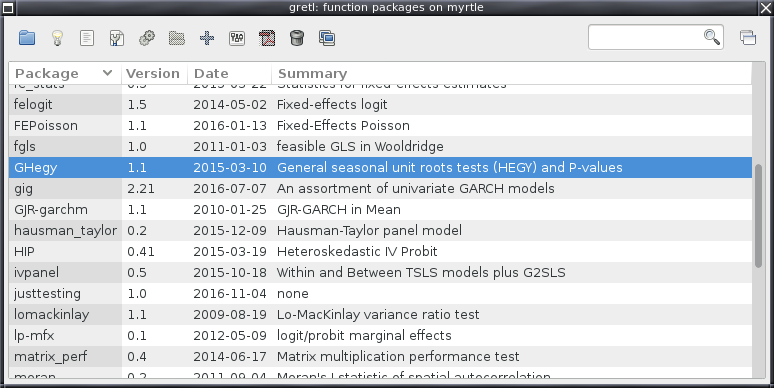
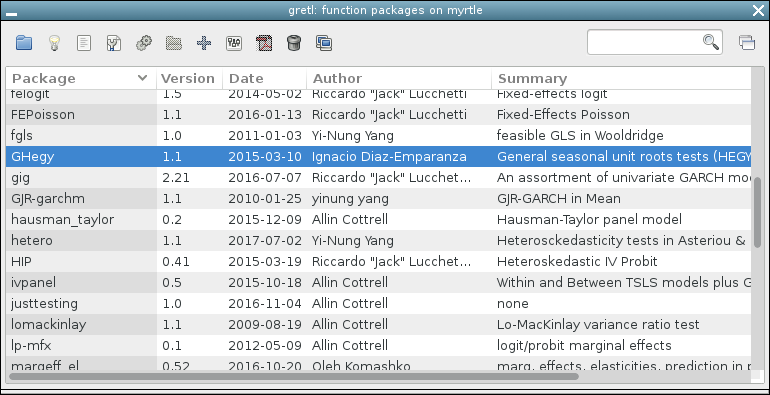
update function package documentation

diff --git a/doc/tex/pkgbook.tex b/doc/tex/pkgbook.tex
@@ -270,9 +270,8 @@ installed.
 \end{center}
 \caption{Browser for installed packages. It's quite easy to tell this
   apart from the ``on server'' window. Apart from their title-bars,
-  this one has a lot more toolbar buttons; and it doesn't display the
-  Author field of packages, though you can see that if you click on
-  the Info button (second from left).}
+  this one has a lot more toolbar buttons (you can do more with a
+  package once it is installed).}
 \label{fig:local-packages}
 \end{figure}
 
@@ -2050,8 +2049,8 @@ File, so that on the next revision it doesn't matter where you start.
 \section*{Appendix A: The CLI on Windows}
 \addcontentsline{toc}{section}{Appendix A: The CLI on Windows}
 
-If you would like to use the command-line approach on a Windows
-computer you must make a preliminary choice: you can either
+If you would like to use the command-line approach under MS Windows
+you must make a preliminary choice: you can either
 \begin{itemize}
 \item Stick to the native Windows way of doing things, or
 \item install software which mimics a unix environment on Windows.
@@ -2077,7 +2076,7 @@ command-line \textsf{zip} and \textsf{unzip} from \textsf{GnuWin32}:
 \url{http://gnuwin32.sf.net/packages/zip.htm}. (In both cases you
 should select the option ``Complete package, except sources''.)
 
-For anyone who's interested, but not very familiar with
+For anyone who's interested but not very familiar with
 \textsf{cmd.exe}, a basic guide follows.  First, to get easy access to
 the program go to the Windows desktop, right-click, and select New,
 Shortcut. You'll be asked for the location of the target for the
@@ -2594,6 +2593,42 @@ the \textsf{Extra properties} button.
 
   \vbusage{} \verb|gui-precheck = lp_mfx_precheck|
 
+\item \texttt{list-maker} (optional): Applies only when a model-window
+  \texttt{menu-attachment} is specified. This element identifies a
+  function to be called to construct a list of series bearing some
+  specific relationship to the gretl model which the package
+  ``targets,'' from which the user is then expected to select a
+  member. This is a generalization of the \texttt{\$xlist} mechanism
+  described in section~\ref{sec:bandplot} above, and is best explained
+  by example. In the \textsf{exogtest} package the designated
+  \texttt{list-maker} function reads as follows:
+\begin{code}
+function list exogtest_listmaker (void)
+  bundle m = $model
+  list xlist = m.xlist
+  list zlist = m.instlist
+  list L = xlist - zlist
+  if nelem(L) == 0
+    funcerr "No endogenous regressors were found"
+  endif
+  return L
+end function
+\end{code}
+  %$
+  This function constructs a list of endogenous regressors from a
+  model estimated via gretl's \texttt{tsls} command (details of which
+  are presumed to be available as members of the \texttt{\$model}
+  bundle). This then provides an automatic listing of candidate
+  arguments for the \texttt{xvar} parameter to the package's
+  \texttt{GUI\_exogtest} function, the signature of which is
+\begin{code}
+function bundle GUI_exogtest (int xvar[$mylist] "regressor to test")
+\end{code}
+  %$
+  The dummy default value of \texttt{\$mylist} is understood by gretl
+  to mean the user's selection from the list returned by the
+  \texttt{list-maker} function.
+
 \item \texttt{no-print} (optional): A list of public interfaces that
   are not designed to print anything.  Consider, for example, a
   package whose job is to produce a special graph based on model data.
@@ -2888,5 +2923,3 @@ are intended to supplement the required sample script.
 \bibliography{gretl}
 
 \end{document}
-
-
